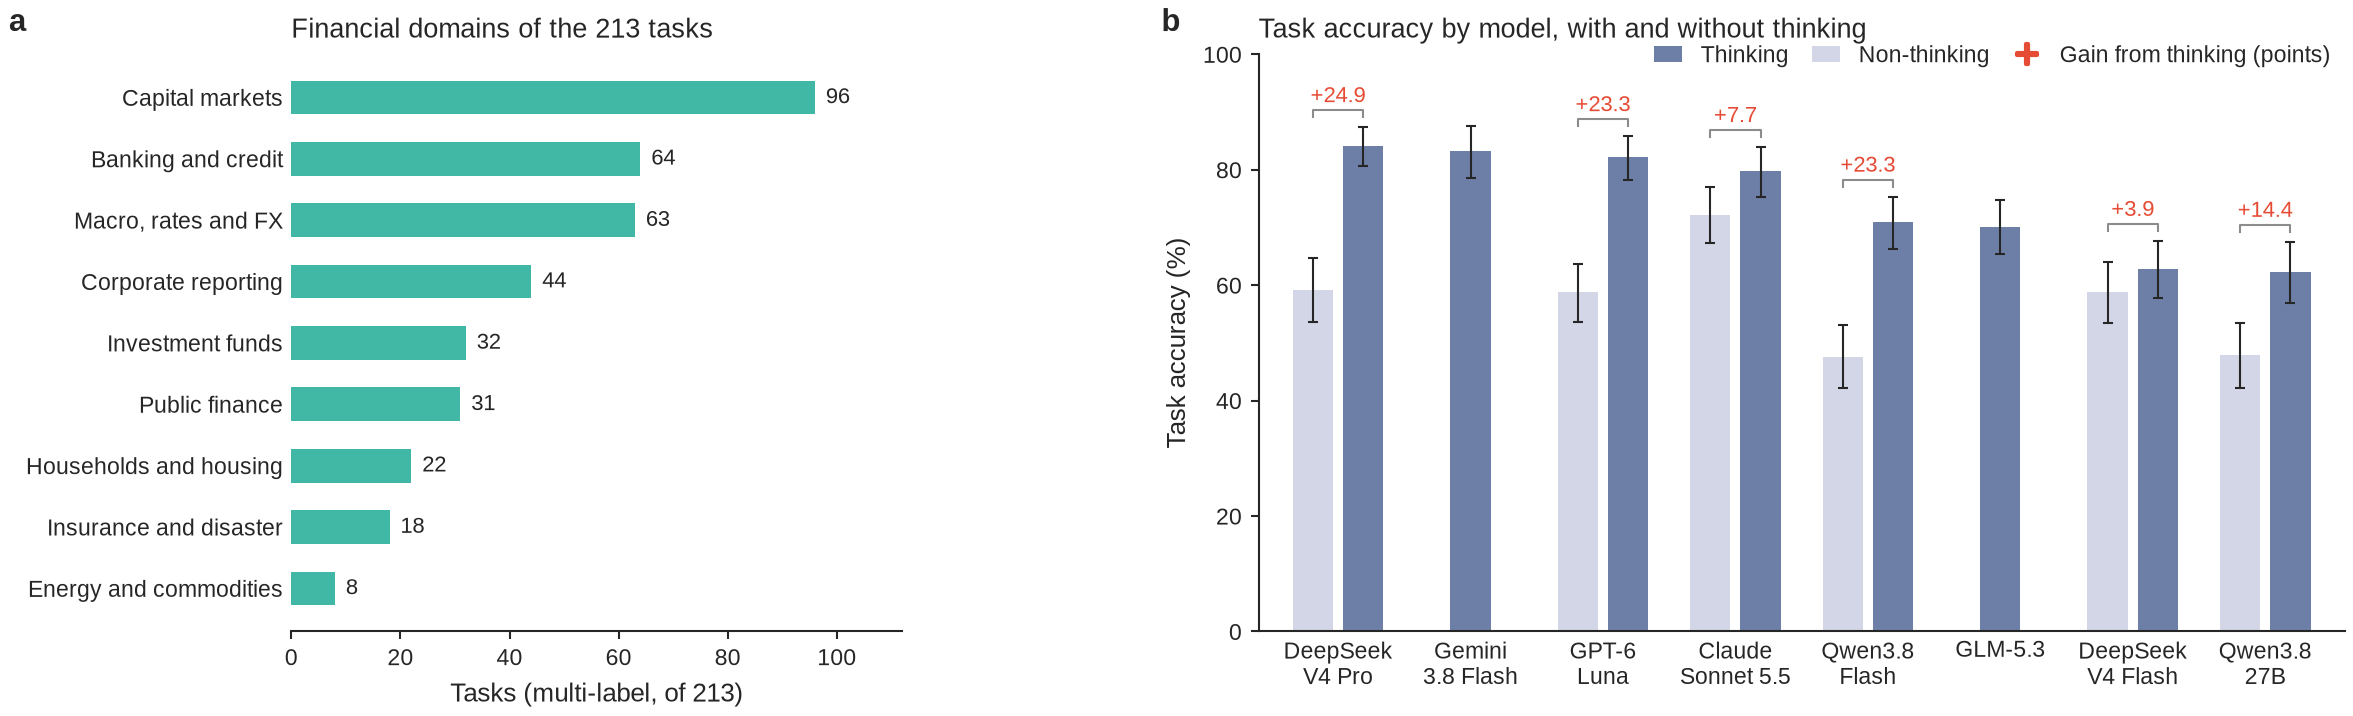
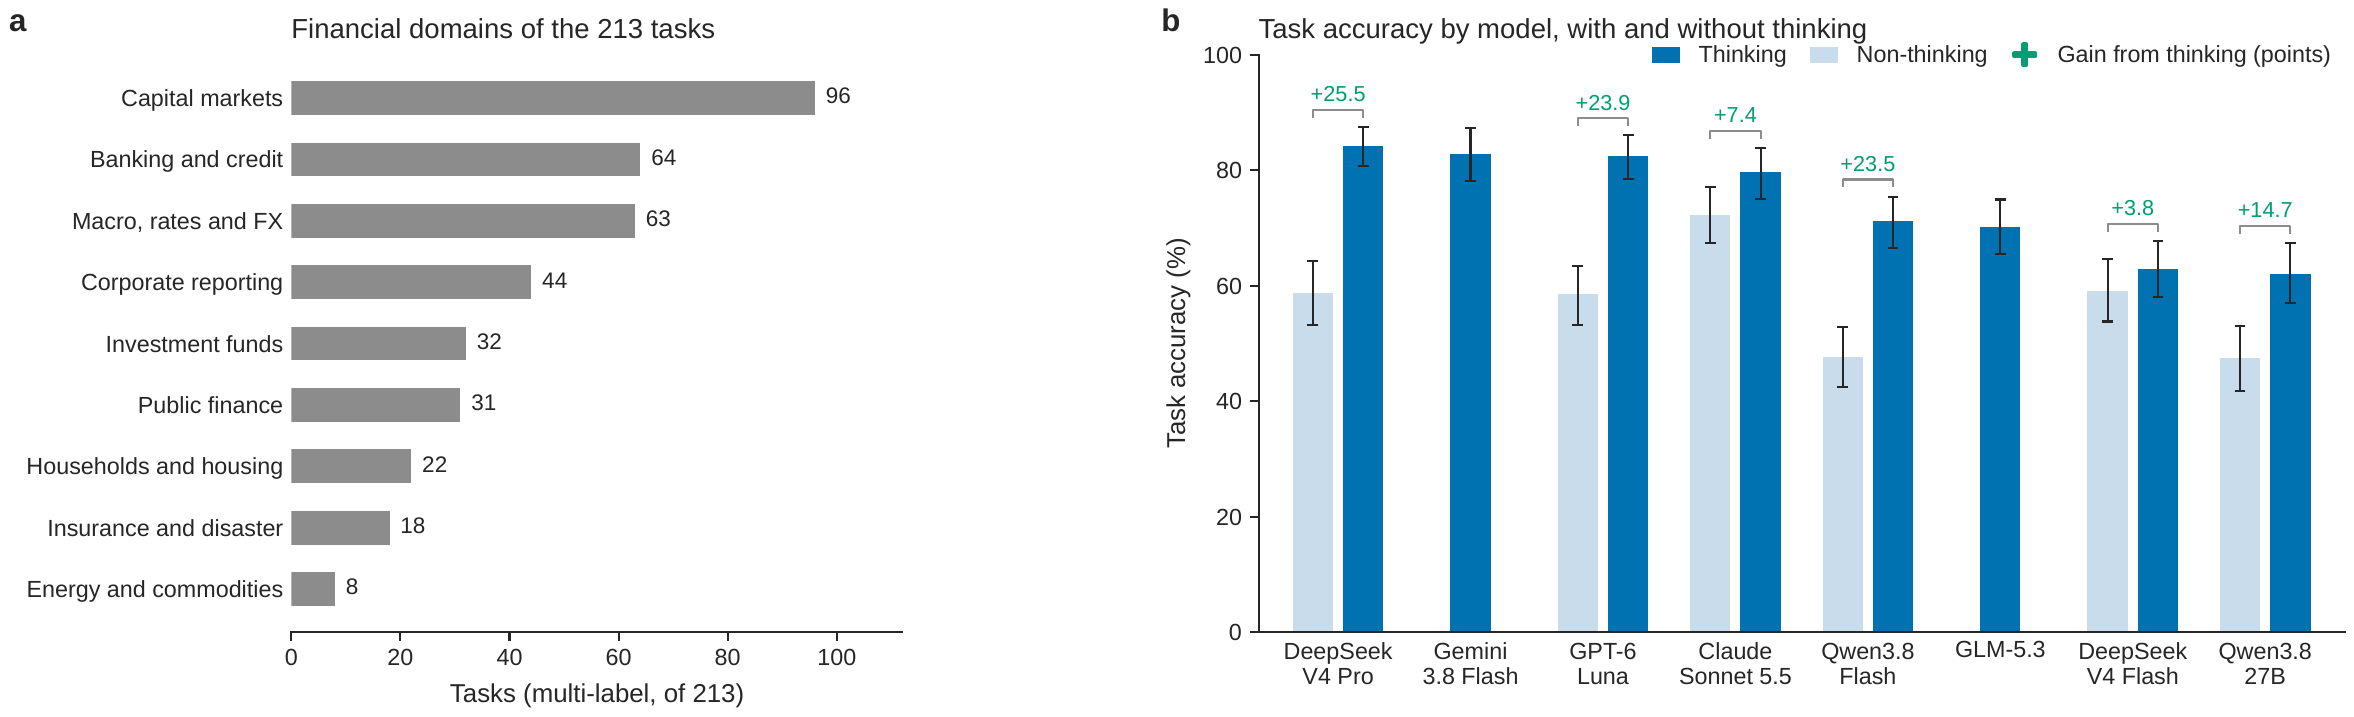
Align the README with the current manuscript
New title and accuracy table; the results summary covers shared errors,
what agreement and verifiers let through, the knowledge behind the shared
errors with the readers' adjudication, the relation to accuracy and its
prospective test, and the judges. Fig. 2 is re-rendered from the paper.

diff --git a/README.md b/README.md
@@ -1,6 +1,6 @@
 # FinAgenticBench
 
-**Capable language model agents make fewer errors but the same ones**
+**Errors shared by language model agents are harder to detect and correct**
 
 [Paper](#citation) (link to be added) · [Data and runs](#data-and-run-artifacts) · [Reproducing the paper](#reproducing-the-paper)
 
@@ -12,14 +12,15 @@ ends, a deterministic validator compares every stored output with a value recomp
 is never parsed for numbers.
 
 Because every answer is a checked value, the runs also show whether two agents computed the same wrong number,
-which reading of the data produced it, and whether a model's wrong answer changes when it reasons longer.
+which reading of the data produced it, and whether the usual checks (a second run, a second model, a reviewing
+model) catch it.
 
 ![Overview of FinAgenticBench](assets/fig1_overview.png)
 
 *(a) The 85 tables from 44 official sources, in six groups. (b) Each task runs over two to six turns, and state
 carries into later turns; in each turn the model writes code that a Python runtime executes on the task's tables,
 and the turn ends with saved values and a written response. (c) Saved values are checked against a reference
-recomputed from the same data; the written response is checked against pre-registered claims. The example is
+recomputed from the same data; the written response is checked against the claims written with the task. The example is
 illustrative.*
 
 ## The benchmark
@@ -57,49 +58,57 @@ points.*
 
 | Model | Non-thinking (%) | Thinking (%) | Gain (pp) |
 |---|---:|---:|---:|
-| DeepSeek V4 Pro | 59.2 | **84.0** | +24.9 |
-| Gemini 3.8 Flash | — | 83.3 | — |
-| GPT-6 Luna | 58.8 | 82.2 | +23.3 |
-| Claude Sonnet 5.5 | 72.1 | 79.8 | +7.7 |
-| Qwen3.8 Flash | 47.6 | 70.9 | +23.3 |
-| GLM-5.3 | — | 70.1 | — |
-| DeepSeek V4 Flash | 58.8 | 62.8 | +3.9 |
-| Qwen3.8-27B | 47.9 | 62.3 | +14.4 |
+| DeepSeek V4 Pro | 58.7 | **84.2** | +25.5 |
+| Gemini 3.8 Flash | — | 82.8 | — |
+| GPT-6 Luna | 58.5 | 82.5 | +23.9 |
+| Claude Sonnet 5.5 | 72.3 | 79.7 | +7.4 |
+| Qwen3.8 Flash | 47.7 | 71.2 | +23.5 |
+| GLM-5.3 | — | 70.3 | — |
+| DeepSeek V4 Flash | 59.2 | 62.9 | +3.8 |
+| Qwen3.8-27B | 47.4 | 62.1 | +14.7 |
 
 *Task accuracy: share of the 213 tasks with every turn correct, mean of three runs. Gemini 3.8 Flash and GLM-5.3
 cannot switch thinking off. The four leading configurations did not differ from one another (paired 95% intervals included zero). Below, the
 strong tier is the configurations at 78% or above and the weak tier those below 60%.*
 
-**Errors converge on the same values.** If each configuration erred independently at its own rate on each task,
+**Agents give the same wrong values.** If each configuration erred independently at its own rate on each task,
 1,433 of the 3,669 outputs attempted by all fourteen would have escaped every error and 364 would have been failed by
 six or more configurations; 1,902 and 529 did. Of all wrong values, 39% were a value that at least three of the
 fourteen configurations gave on the same output (we call these shared, and the rest unshared). Which output is asked
 for explains 27.8% of the variance in correctness, which configuration answers it 2.4%. Apart from the two modes of
-one model, shared wrong values show no detectable clustering by vendor; sharing rises by 15 points for every 10 points of a pair's
-accuracy.
+one model, shared wrong values show no detectable clustering by vendor.
 
-**More accurate agents keep the errors that others make.** Where a strong and a weak configuration both erred on an
-output, the strong one gave the other configurations' most common wrong value 52% of the time and the weak one 37%.
-Holding the model fixed, its wrong values matched the other models' more often with thinking on (by 7 points
-pooled). The tier contrast holds when the model's other mode, or its whole vendor, is left out of the consensus.
-From the weak to the strong tier, unshared wrong values fall by 88% and shared ones by 46%, and 65% of strong-tier
-wrong values are shared.
+**Agreement passes the errors agents share.** Among thinking configurations, a second run of the same model
+repeated 49.4% of the wrong values that at least two configurations of other vendors also gave, and 10.3% of the
+rest; one run of another vendor's model repeated 25.3% and 4.7%. Agreement is still a good sign for a single
+output: two runs of one model that agreed were correct 98.3% of the time and one run each from two vendors 99.2%.
+But of the wrong values two vendors agreed on, 79% were also given by configurations of other vendors. On 111
+air-quality tasks, a second run likewise repeated shared wrong values more often than the rest (53.7% against 27.4%).
+
+**Verifiers keep the shared errors they are shown.** Three verifiers were shown the stored values of another
+configuration's run on 149 tasks and asked to recompute each from the data. They corrected 73.5% of the unshared
+wrong outputs and 38.4% of the shared ones. On the shared ones, a verifier stored the correct value less often when
+shown the wrong one than in its own independent runs (38.4% against 50.5%, a difference of −12.0 points, 95% CI
+−24.1 to −2.7).
 
 **Shared errors lie in conventions and in the meaning of data rows.** We read the code behind the 307 outputs on
 which five or more configurations gave the same wrong value. The two largest sources were statistical conventions
-(23.8% of these wrong attempts), mostly stated in the task, and data-model semantics (22.1%): a filer is its SEC
-identifier (CIK) and not its name, a file carries a total row beside the detail rows. Capability reduced six of the
-nine classes; for data-model semantics no reduction was detectable. Rewording four tasks removed the shared readings
-it targeted and raised passes from 80 to 122 of 168 runs.
+(23.7% of these wrong attempts), mostly stated in the task, and data-model semantics (22.2%): a filer is its SEC
+identifier (CIK) and not its name, a file carries a total row beside the detail rows. Two readers judged, for the
+72 root causes that admit a second reading, which reading the task's wording requires; each chose the reference in
+69, and on no item did both choose the shared reading. Rewording four tasks removed the shared readings it targeted
+and raised passes from 80 to 122 of 168 runs.
 
-**Agreement passes the errors agents share.** Among thinking configurations, two runs of one model that agreed on
-a value were correct 98.3% of the time and one run each from two vendors 99.2%. Of the wrong values two vendors
-agreed on, 79% were also given by configurations of other vendors, against 48% of wrong values overall.
+**Shared errors fall more slowly with accuracy.** From the weak to the strong tier, unshared wrong values fall by
+88% and shared ones by 47%, and 65% of strong-tier wrong values are shared. Where a strong and a weak configuration
+both erred on an output, the strong one gave the other configurations' most common wrong value 52% of the time and
+the weak one 37%. The relation was measured between 47% and 84% task accuracy; GPT-6.1 Sol, run afterwards with its
+expected share recorded beforehand, reached 96.4% and fell below the predicted interval.
 
 **Judging the written response says little about whether the numbers are right.** Three judges from different
-vendors checked each turn's response against its pre-registered claims, without the reference values. Claim
-coverage separated correct from incorrect turns with an AUC of 0.52–0.53, also without each judge's own vendor,
-and under every judge the least accurate configuration passed more often than the most accurate.
+vendors checked each turn's response against its claims, without the reference values. Claim coverage separated
+correct from incorrect turns with an AUC of 0.52–0.53, also without each judge's own vendor. Judges shown the
+reference outputs and scoring response quality reached 0.87 and 0.85.
 
 Because every output is checked by a program, the tasks could also provide verifiable rewards for reinforcement
 learning (RLVR); the paper discusses this use but does not test it.
